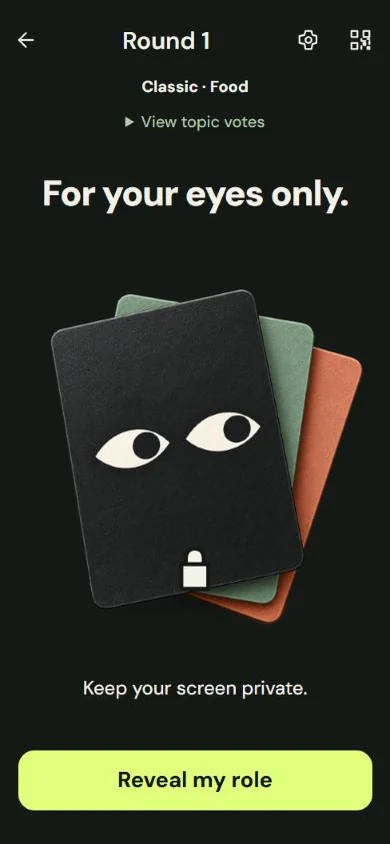
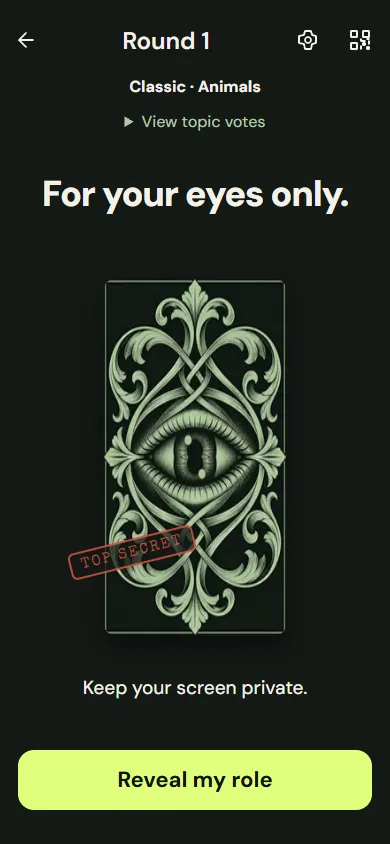
Prepare Imposter 1.3.0
Bumps the app to 1.3.0 and adds its release notes: power cards for 6+
players, the case-file noir theme, sound, your role on the ballot, and
the new power-cards-v1 protocol that asks older phones to update.
The README points at the 1.3.0 APK.

Website: every app screen recaptured in the new theme, a new
"Play your cards" row, a power cards feature, 1.3.0 links and copy.
The screens are now repeatable: scripts/site-capture.js plays the round
and scripts/site-screens.py turns the captures into docs/screens.

diff --git a/docs/index.html b/docs/index.html
@@ -13,8 +13,8 @@
   <link rel="canonical" href="https://malon0825.github.io/imposter-app/">
   <link rel="icon" type="image/svg+xml" href="assets/icon.svg">
   <link rel="preload" href="assets/fonts/anton-latin.woff2" as="font" type="font/woff2" crossorigin>
-  <link rel="stylesheet" href="styles.css?v=1.2.1">
-  <script src="site.js?v=1.2.1" defer></script>
+  <link rel="stylesheet" href="styles.css?v=1.3.0">
+  <script src="site.js?v=1.3.0" defer></script>
 </head>
 <body>
   <a class="skip-link" href="#main">Skip to content</a>
@@ -31,12 +31,12 @@
           <p class="tag">Someone is bluffing.</p>
           <p class="sub">One room. One secret. <br>Trust no one.</p>
           <p class="hero-description">A secret role on every phone. An imposter, their accomplice, a detective and a judge in the room. Find the liar before they fool everyone.</p>
-          <div class="actions"><a class="btn primary" data-latest-apk href="https://github.com/Malon0825/imposter-app/releases/download/v1.2.1/imposter-1.2.1-android.apk">Download for Android <span aria-hidden="true">↓</span></a><a class="text-link" href="#how">How to play <span aria-hidden="true">↗</span></a></div>
-          <p class="download-meta"><span data-latest-version>v1.2.1</span> <span>·</span> Android 8+ <span>·</span> Free</p>
+          <div class="actions"><a class="btn primary" data-latest-apk href="https://github.com/Malon0825/imposter-app/releases/download/v1.3.0/imposter-1.3.0-android.apk">Download for Android <span aria-hidden="true">↓</span></a><a class="text-link" href="#how">How to play <span aria-hidden="true">↗</span></a></div>
+          <p class="download-meta"><span data-latest-version>v1.3.0</span> <span>·</span> Android 8+ <span>·</span> Free</p>
         </div>
         <div class="hero-visual" aria-label="Real app screenshots: the imposter's role reveal and the detective's secret word">
           <div class="hero-phone back-phone"><img src="screens/cast-imposter.webp" width="390" height="844" alt="Imposter app: the Imposter role reveal, Escape the vote" fetchpriority="high"></div>
-          <div class="hero-phone front-phone"><img src="screens/round-detective-card.webp" width="390" height="844" alt="Imposter app: the detective's secret word is Butterfly" fetchpriority="high"></div>
+          <div class="hero-phone front-phone"><img src="screens/round-detective-card.webp" width="390" height="844" alt="Imposter app: the detective's secret word is Bear" fetchpriority="high"></div>
           <span class="photo-note">Actual app. Very suspicious friends.</span>
         </div>
       </div>
@@ -66,7 +66,7 @@
       <div class="wrap">
         <p class="eyebrow">03 / Set the mood</p><h2>From everyday to<br>“wait, what was that clue?”</h2><p class="lead">23 topic packs. 581 word-and-hint pairs. Everyone votes for topics before each round; tied leaders have equal random chances. Sensitive packs stay opt-in.</p>
         <div class="topics" aria-label="Sample topic packs"><span>Everyday</span><span>Food</span><span>Animals</span><span>Psychology</span><span>Relationships <small>Opt-in</small></span><span>Sex education <small>Opt-in</small></span><span>Consent <small>Opt-in</small></span></div>
-        <div class="features"><div><h3>A secret on every screen.</h3><p>Your role starts concealed on your own device. Reveal it when you're ready, then hide it before the clues begin.</p></div><div><h3>Built for being together.</h3><p>The host runs the party over local Wi-Fi. Friends can mix installed Android apps and browsers in one game.</p></div><div><h3>Your turn. Your choice.</h3><p>Drink, Dare, or Skip. A soft drink counts. Dares happen between friends, away from the app, and skipping never costs points.</p></div></div>
+        <div class="features"><div><h3>A secret on every screen.</h3><p>Your role starts concealed on your own device. Reveal it when you're ready, then hide it before the clues begin.</p></div><div><h3>Built for being together.</h3><p>The host runs the party over local Wi-Fi. Friends can mix installed Android apps and browsers in one game.</p></div><div><h3>Power cards for big tables.</h3><p>With six or more, draw a card before roles and play it at the right moment. Common, Rare or Golden, and everyone sees when one lands.</p></div><div><h3>Your turn. Your choice.</h3><p>Drink, Dare, or Skip. A soft drink counts. Dares happen between friends, away from the app, and skipping never costs points.</p></div></div>
       </div>
     </section>
     <section id="screens" class="surface-section">
@@ -77,7 +77,7 @@
             <figure><a class="screen-link" href="screens/01-welcome.webp"><img src="screens/01-welcome.webp" width="390" height="844" loading="lazy" alt="Welcome screen with Host party and Join party actions"></a><figcaption>01 · Welcome</figcaption></figure>
             <figure><a class="screen-link" href="screens/02-create.webp"><img src="screens/02-create.webp" width="390" height="844" loading="lazy" alt="Create a party with a name and shared Wi-Fi label"></a><figcaption>02 · Create a party</figcaption></figure>
             <figure><a class="screen-link" href="screens/03-host-setup.webp"><img src="screens/03-host-setup.webp" width="390" height="844" loading="lazy" alt="Background hosting setup with battery settings"></a><figcaption>03 · Keep it connected</figcaption></figure>
-            <figure><a class="screen-link" href="screens/cast-lobby.webp"><img src="screens/cast-lobby.webp" width="390" height="844" loading="lazy" alt="Host lobby with five ready players and tonight's cast of roles"></a><figcaption>04 · Host lobby</figcaption></figure>
+            <figure><a class="screen-link" href="screens/cast-lobby.webp"><img src="screens/cast-lobby.webp" width="390" height="844" loading="lazy" alt="Host lobby with six ready players and tonight's cast of roles"></a><figcaption>04 · Host lobby</figcaption></figure>
           </div>
         </article>
         <article class="flow"><div class="flow-heading"><span class="flow-index">05—08</span><div><h3>Find your people.</h3><p>Scan inside the Android app, check the connection, and take your place.</p></div></div>
@@ -102,23 +102,23 @@
           <div class="screen-row" tabindex="0" role="group" aria-label="Topics and private roles screenshots">
             <figure><a class="screen-link" href="screens/round-topic-vote.webp"><img src="screens/round-topic-vote.webp" width="390" height="844" loading="lazy" alt="Topic vote with Everyday, Food, Animals and other packs"></a><figcaption>15 · Vote on topics</figcaption></figure>
             <figure><a class="screen-link" href="screens/round-concealed.webp"><img src="screens/round-concealed.webp" width="390" height="844" loading="lazy" alt="Concealed private role card before revealing"></a><figcaption>16 · For your eyes only</figcaption></figure>
-            <figure><a class="screen-link" href="screens/round-imposter-card.webp"><img src="screens/round-imposter-card.webp" width="390" height="844" loading="lazy" alt="Imposter card showing the starting hint Garden"></a><figcaption>17 · The imposter</figcaption></figure>
-            <figure><a class="screen-link" href="screens/round-detective-card.webp"><img src="screens/round-detective-card.webp" width="390" height="844" loading="lazy" alt="Detective card showing the secret word Butterfly and a cleared player"></a><figcaption>18 · The detective</figcaption></figure>
+            <figure><a class="screen-link" href="screens/round-imposter-card.webp"><img src="screens/round-imposter-card.webp" width="390" height="844" loading="lazy" alt="Imposter card showing the starting hint Woodland"></a><figcaption>17 · The imposter</figcaption></figure>
+            <figure><a class="screen-link" href="screens/round-detective-card.webp"><img src="screens/round-detective-card.webp" width="390" height="844" loading="lazy" alt="Detective card showing the secret word Bear and a cleared player"></a><figcaption>18 · The detective</figcaption></figure>
           </div>
         </article>
         <article class="flow"><div class="flow-heading"><span class="flow-index">19—22</span><div><h3>Trust your instinct.</h3><p>Trade clues, lock your secret ballot, and find out who fooled whom.</p></div></div>
           <div class="screen-row" tabindex="0" role="group" aria-label="Voting and results screenshots">
-            <figure><a class="screen-link" href="screens/round-clue-board.webp"><img src="screens/round-clue-board.webp" width="390" height="844" loading="lazy" alt="Clue board with clue turns and the Open voting control"></a><figcaption>19 · Give your clues</figcaption></figure>
-            <figure><a class="screen-link" href="screens/round-ballot.webp"><img src="screens/round-ballot.webp" width="390" height="844" loading="lazy" alt="Detective's ballot naming the imposter and the accomplice, with an optional bet"></a><figcaption>20 · Cast your vote</figcaption></figure>
-            <figure><a class="screen-link" href="screens/round-your-result.webp"><img src="screens/round-your-result.webp" width="390" height="844" loading="lazy" alt="Personal result: the detective got it, plus five points"></a><figcaption>21 · Your result</figcaption></figure>
-            <figure><a class="screen-link" href="screens/round-the-room.webp"><img src="screens/round-the-room.webp" width="390" height="844" loading="lazy" alt="Everyone's results: the imposter escaped"></a><figcaption>22 · The room</figcaption></figure>
+            <figure><a class="screen-link" href="screens/round-clue-board.webp"><img src="screens/round-clue-board.webp" width="390" height="844" loading="lazy" alt="Clue board with the speaking order and another clue turn"></a><figcaption>19 · Give your clues</figcaption></figure>
+            <figure><a class="screen-link" href="screens/round-ballot.webp"><img src="screens/round-ballot.webp" width="390" height="844" loading="lazy" alt="Judge's ballot with their role, a vote that counts twice and an optional bet"></a><figcaption>20 · Cast your vote</figcaption></figure>
+            <figure><a class="screen-link" href="screens/round-your-result.webp"><img src="screens/round-your-result.webp" width="390" height="844" loading="lazy" alt="Personal result: the Judge guessed wrong"></a><figcaption>21 · Your result</figcaption></figure>
+            <figure><a class="screen-link" href="screens/round-the-room.webp"><img src="screens/round-the-room.webp" width="390" height="844" loading="lazy" alt="The verdict: Cleo escaped, with everyone's results"></a><figcaption>22 · The room</figcaption></figure>
           </div>
         </article>
         <article class="flow"><div class="flow-heading"><span class="flow-index">23—26</span><div><h3>Time to face the room.</h3><p>One player at a time. A drink, a human-given dare, or a guilt-free skip.</p></div></div>
           <div class="screen-row" tabindex="0" role="group" aria-label="Punishment turns and standings screenshots">
-            <figure><a class="screen-link" href="screens/17-choose.webp"><img src="screens/17-choose.webp" width="390" height="844" loading="lazy" alt="Choose Drink, Dare, or Skip for your punishment turn"></a><figcaption>23 · Your choice</figcaption></figure>
-            <figure><a class="screen-link" href="screens/turn-loser.webp"><img src="screens/turn-loser.webp" width="390" height="844" loading="lazy" alt="Kai's turn to choose their fate"></a><figcaption>24 · Your turn</figcaption></figure>
-            <figure><a class="screen-link" href="screens/turn-dare-giver.webp"><img src="screens/turn-dare-giver.webp" width="390" height="844" loading="lazy" alt="Jo gives Kai a dare in person"></a><figcaption>25 · A friend sets the dare</figcaption></figure>
+            <figure><a class="screen-link" href="screens/17-choose.webp"><img src="screens/17-choose.webp" width="390" height="844" loading="lazy" alt="Alex's turn: choose Drink, Dare, or Skip"></a><figcaption>23 · Your choice</figcaption></figure>
+            <figure><a class="screen-link" href="screens/turn-loser.webp"><img src="screens/turn-loser.webp" width="390" height="844" loading="lazy" alt="Ben's turn to choose their fate"></a><figcaption>24 · Your turn</figcaption></figure>
+            <figure><a class="screen-link" href="screens/turn-dare-giver.webp"><img src="screens/turn-dare-giver.webp" width="390" height="844" loading="lazy" alt="Dev gives Ben a dare in person"></a><figcaption>25 · A friend sets the dare</figcaption></figure>
             <figure><a class="screen-link" href="screens/turn-standings.webp"><img src="screens/turn-standings.webp" width="390" height="844" loading="lazy" alt="Session standings racing to 15 points"></a><figcaption>26 · Settle the score</figcaption></figure>
           </div>
         </article>
@@ -128,6 +128,16 @@
             <figure><a class="screen-link" href="screens/rule-revealed.webp"><img src="screens/rule-revealed.webp" width="390" height="844" loading="lazy" alt="This round: Classic, give a spoken clue"></a><figcaption>28 · The rule is set</figcaption></figure>
             <figure><a class="screen-link" href="screens/round-settings.webp"><img src="screens/round-settings.webp" width="390" height="844" loading="lazy" alt="Round settings sheet with pause, skip and random rules"></a><figcaption>29 · Host controls</figcaption></figure>
             <figure><a class="screen-link" href="screens/22-reconnecting.webp"><img src="screens/22-reconnecting.webp" width="390" height="844" loading="lazy" alt="Reconnecting screen after losing contact with the host"></a><figcaption>30 · Find your way back</figcaption></figure>
+          </div>
+        </article>
+        <article class="flow"><div class="flow-heading"><span class="flow-index">31—36</span><div><h3>Play your cards.</h3><p>With six or more players, the host can turn on power cards: draw before roles, play one a round, and turn the night around.</p></div></div>
+          <div class="screen-row cast-row" tabindex="0" role="group" aria-label="Power card screenshots">
+            <figure><a class="screen-link" href="screens/cards-draw.webp"><img src="screens/cards-draw.webp" width="390" height="844" loading="lazy" alt="Draw a power card for 3 points, with your Golden chance"></a><figcaption>31 · Draw or skip</figcaption></figure>
+            <figure><a class="screen-link" href="screens/cards-drawn.webp"><img src="screens/cards-drawn.webp" width="390" height="844" loading="lazy" alt="You drew Cardboard Crown, a Common card"></a><figcaption>32 · Only you see it</figcaption></figure>
+            <figure><a class="screen-link" href="screens/cards-hand.webp"><img src="screens/cards-hand.webp" width="390" height="844" loading="lazy" alt="Your case file: the cards in your hand and how each suits your role"></a><figcaption>33 · Your hand</figcaption></figure>
+            <figure><a class="screen-link" href="screens/cards-detail.webp"><img src="screens/cards-detail.webp" width="390" height="844" loading="lazy" alt="Late Arrival up close, in English and Filipino, with a tip for your role"></a><figcaption>34 · Read it, then play it</figcaption></figure>
+            <figure><a class="screen-link" href="screens/cards-xray.webp"><img src="screens/cards-xray.webp" width="390" height="844" loading="lazy" alt="A Golden X-Ray shows that Dev is the Imposter"></a><figcaption>35 · Golden cards change everything</figcaption></figure>
+            <figure><a class="screen-link" href="screens/cards-story.webp"><img src="screens/cards-story.webp" width="390" height="844" loading="lazy" alt="The Imposter Times: the story of the night's card plays"></a><figcaption>36 · The story of the night</figcaption></figure>
           </div>
         </article>
       </div>
@@ -140,7 +150,7 @@
     </section>
     <section id="download" class="surface-section">
       <div class="wrap download-layout">
-        <div><p class="eyebrow">Your next game night</p><h2>Find your imposter.</h2><p class="lead">Download the host app. Gather 3–12 friends.<br>Try to keep a straight face.</p><div class="actions"><a class="btn primary" data-latest-apk href="https://github.com/Malon0825/imposter-app/releases/download/v1.2.1/imposter-1.2.1-android.apk"><span>Download <span data-latest-version>v1.2.1</span> APK</span> <span aria-hidden="true">↓</span></a><a class="text-link" data-latest-notes href="https://github.com/Malon0825/imposter-app/releases/latest">Release notes <span aria-hidden="true">↗</span></a></div><p class="download-meta">Android 8+ · ARM64 · Free</p><p class="download-meta">New in 1.2.1: the Accomplice can tip a close vote, with no cost for voting the Detective. Update every Android phone; browser guests need nothing new.</p><a class="checksum-link" data-latest-sha href="https://github.com/Malon0825/imposter-app/releases/download/v1.2.1/imposter-1.2.1-android.apk.sha256">Download checksum</a></div>
+        <div><p class="eyebrow">Your next game night</p><h2>Find your imposter.</h2><p class="lead">Download the host app. Gather 3–12 friends.<br>Try to keep a straight face.</p><div class="actions"><a class="btn primary" data-latest-apk href="https://github.com/Malon0825/imposter-app/releases/download/v1.3.0/imposter-1.3.0-android.apk"><span>Download <span data-latest-version>v1.3.0</span> APK</span> <span aria-hidden="true">↓</span></a><a class="text-link" data-latest-notes href="https://github.com/Malon0825/imposter-app/releases/latest">Release notes <span aria-hidden="true">↗</span></a></div><p class="download-meta">Android 8+ · ARM64 · Free</p><p class="download-meta">New in 1.3.0: power cards for 6+ players, a case-file noir look and sound. Update every Android phone; browser guests need nothing new.</p><a class="checksum-link" data-latest-sha href="https://github.com/Malon0825/imposter-app/releases/download/v1.3.0/imposter-1.3.0-android.apk.sha256">Download checksum</a></div>
         <div class="install-help"><h3>Before your first round</h3><details><summary>How do I install the Android app?</summary><p>Download the APK on your Android phone, open it, and allow installation from your browser when Android asks. Every release uses the same signing key, so a new download updates your existing installation.</p></details><details><summary>Can iPhone friends play?</summary><p>Yes, through the browser guest flow. Connect to the host's Wi-Fi before scanning the party QR, then open the link in your preferred browser. The 1.1.0 flow passed automated WebKit checks; physical iPhone testing is still pending.</p></details><details><summary>Do we need an internet connection?</summary><p>Only to download the host app. Once installed, gameplay runs on the host's local Wi-Fi network. Connect every phone to the same reachable router. Some guest Wi-Fi networks isolate devices and prevent joining. Keep the host app available throughout the game.</p></details><details><summary>Is there a stable version?</summary><p><a href="https://github.com/Malon0825/imposter-app/releases/tag/v1.0.0">Version 1.0.0</a> is the stable native-only release. Each player needs the Android app for that version. Use the latest release for mixed app and browser play.</p></details></div>
       </div>
     </section>

diff --git a/scripts/site-capture.js b/scripts/site-capture.js
@@ -1,0 +1,153 @@
+// The website's app tour (docs/screens): plays one 6-player round with random
+// rules and screenshots each screen the site shows, under the site's own file
+// names, at 390x844. Power-card screens come from scripts/cards-capture.js and
+// the setup screens from scripts/visual-capture.js; scripts/site-screens.py
+// turns all of them into docs/screens/*.webp. Run with the app preview:
+//   npx --package @playwright/cli playwright-cli -s=imposter open http://127.0.0.1:1428
+//   npx --package @playwright/cli playwright-cli -s=imposter run-code --filename=scripts/site-capture.js
+async function siteCapture(hostPage) {
+  const origin = new URL(hostPage.url()).origin;
+  const browser = hostPage.context().browser();
+  const contexts = [];
+  const out = "output/playwright/site";
+  const button = (page, name) => page.getByRole("button", { name, exact: true });
+  const heading = (page, name) => page.getByRole("heading", { name, exact: true });
+  const call = async (method, body) => {
+    const response = await hostPage.request.post(`${origin}/api/${method}`, { headers: { "X-Imposter-Dev": "1" }, data: body });
+    const data = await response.json();
+    if (!response.ok()) throw Error(data.error);
+    return data;
+  };
+  const shots = [];
+  const capture = async (page, name, wait = 700) => {
+    await page.waitForTimeout(wait);
+    await page.evaluate(() => document.fonts.ready);
+    const overflow = await page.evaluate(() => document.documentElement.scrollWidth > innerWidth + 1);
+    await page.screenshot({ path: `${out}/${name}.png` });
+    shots.push(overflow ? `${name} (OVERFLOW)` : name);
+  };
+  const open = async (session, party) => {
+    const context = await browser.newContext({ viewport: { width: 390, height: 844 } });
+    contexts.push(context);
+    const page = await context.newPage();
+    await page.goto(origin);
+    await button(page, "Host party").waitFor();
+    if (!session) return page;
+    await page.evaluate((data) => sessionStorage.setItem("imposter.session.v1", JSON.stringify(data)), session);
+    await page.reload();
+    await heading(page, party).waitFor();
+    return page;
+  };
+  try {
+    const welcome = await open(null);
+    await capture(welcome, "01-welcome");
+
+    const party = "Friday night";
+    const names = ["Alex", "Ben", "Cleo", "Dev", "Eve", "Kai"];
+    const host = await call("create", { name: party, player: names[0], wifi: "Home Wi-Fi" });
+    const sessions = [host];
+    for (const name of names.slice(1))
+      sessions.push(await call("join", { invitation: host.credentials.native_invitation, player: name }));
+    const pages = [];
+    for (const session of sessions) pages.push(await open(session, party));
+    const [hostTab, guestTab] = pages;
+    await Promise.all(pages.slice(1, 5).map((page) => button(page, "I’m ready").click()));
+    await button(pages[5], "I’m ready").click();
+    await capture(hostTab, "cast-lobby");
+    await hostTab.getByRole("switch", { name: "Random rules" }).click().catch(() => {});
+    await button(hostTab, "Start round").click();
+
+    // Rule reveal (random rules), then the topic vote.
+    await hostTab.locator(".rule-shuffle").waitFor({ timeout: 8000 }).then(() => capture(hostTab, "rule-shuffle", 300)).catch(() => {});
+    await hostTab.locator(".rule-card, .round-rule-card").first().waitFor({ timeout: 8000 }).then(() => capture(hostTab, "rule-revealed", 900)).catch(() => {});
+    await heading(hostTab, "What should we play?").waitFor({ timeout: 15000 });
+    const vote = (await call("state", { session_id: host.session_id })).topic_vote;
+    const topic = (await call("catalog", {})).find((entry) => entry.id === vote.available_topics[0]).name;
+    await button(guestTab, topic).click();
+    await capture(guestTab, "round-topic-vote");
+    await Promise.all(pages.map(async (page) => {
+      if (page !== guestTab) await button(page, topic).click();
+      await button(page, "Lock my vote").click();
+    }));
+    await hostTab.locator(".chosen-topic-card").waitFor({ timeout: 15000 }).then(() => capture(hostTab, "round-topic-chosen", 900)).catch(() => {});
+
+    // Roles: the poster, the concealed card, the word or hint, then waiting.
+    const roles = [];
+    for (const [i, page] of pages.entries()) {
+      await button(page, "Reveal my role").waitFor({ timeout: 15000 });
+      if (i === 0) await capture(page, "round-concealed");
+      await button(page, "Reveal my role").click();
+      const role = (await page.locator(".role-stage-name").textContent()).trim();
+      roles.push(role);
+      await capture(page, `cast-${role.toLowerCase()}`, 1200);
+      await page.getByRole("button", { name: /^See my/ }).click();
+      await page.locator(".role-title").waitFor();
+      if (role === "Imposter") await capture(page, "round-imposter-card", 1000);
+      if (role === "Detective") await capture(page, "round-detective-card", 1000);
+      await button(page, "Hide & ready").click();
+    }
+
+    await capture(hostTab, "round-clue-board");
+    await hostTab.getByRole("button", { name: "Session settings" }).click();
+    await capture(hostTab, "round-settings");
+    await hostTab.keyboard.press("Escape");
+    await hostTab.getByRole("button", { name: "Close" }).click().catch(() => {});
+    await button(hostTab, "Open voting").click();
+
+    for (const [index, page] of pages.entries()) {
+      await page.locator(".ballot-row, .crew-ballot").first().waitFor();
+      if (await heading(page, "Find your crew").count()) {
+        await page.getByRole("group", { name: "Your accomplice?" }).locator("button:not([disabled])").first().click();
+        await page.getByRole("group", { name: "The decoy?" }).locator("button:not([disabled])").first().click();
+      } else {
+        await page.locator(".ballot-row:not([disabled])").first().click();
+        if (roles[index] === "Detective")
+          await page.getByRole("group", { name: "Who’s the accomplice?" }).locator("button:not([disabled])").last().click();
+      }
+      if (roles[index] === "Judge") await capture(page, "round-ballot");
+      await button(page, "Confirm vote").click();
+      if (index < pages.length - 1) {
+        await heading(page, "Your vote is locked").waitFor();
+      }
+    }
+    await Promise.all(pages.map((page) => page.locator(".personal-stage").waitFor({ timeout: 15000 })));
+    await hostTab.locator(".everyone-results, .your-result").first().waitFor({ timeout: 15000 }).catch(() => {});
+    await capture(hostTab, "round-your-result");
+    await button(hostTab, "See the room").click().catch(() => {});
+    await hostTab.locator(".everyone-results").waitFor({ timeout: 20000 });
+    await capture(hostTab, "round-the-room");
+
+    // A guest files a complaint, then Drink or Dare runs until the standings.
+    await button(guestTab, "See the room").click().catch(() => {});
+    await button(guestTab, "Report a rule violation").click();
+    await guestTab.locator(".report-sheet-row").first().click();
+    await guestTab.getByRole("button", { name: "Close report" }).click();
+    await button(hostTab, "Continue").click();
+    for (let turn = 0; turn < pages.length; turn++) {
+      await hostTab.waitForTimeout(800);
+      const loser = await (async () => {
+        for (const page of pages) if (await button(page, "Drink").count()) return page;
+        return null;
+      })();
+      if (!loser) break;
+      if (turn === 0) {
+        await capture(loser, "turn-loser");
+        await button(loser, "Dare").click();
+        await loser.locator(".dare-pair").waitFor();
+        await capture(loser, "turn-dare-giver");
+      } else {
+        await button(loser, "Drink").click();
+      }
+      await button(loser, "Done").click();
+    }
+    await hostTab.locator(".standings").waitFor({ timeout: 15000 });
+    await capture(hostTab, "turn-standings");
+    return shots;
+  } catch (error) {
+    for (const [i, context] of contexts.entries())
+      for (const page of context.pages()) await page.screenshot({ path: `${out}/failure-${i}.png` }).catch(() => {});
+    throw Error(`${error.message}\nCaptured so far: ${shots.join(", ")}`);
+  } finally {
+    for (const context of contexts) await context.close();
+  }
+}

diff --git a/scripts/site-screens.py b/scripts/site-screens.py
@@ -1,0 +1,58 @@
+"""Turn the capture scripts' PNGs into the website's screens (docs/screens/*.webp).
+
+Run after the three captures (see docs/README.md, "Screenshots"):
+    scripts/site-capture.js   -> output/playwright/site/<site name>.png
+    scripts/cards-capture.js  -> output/playwright/cards-390/<nn>-<screen>.png
+    scripts/visual-capture.js -> output/playwright/visual-site/<nn>-<screen>.png
+                                 (open it at /?capture=site&width=390&height=844)
+
+    python -I scripts/site-screens.py
+"""
+from __future__ import annotations
+
+import sys
+from pathlib import Path
+
+from PIL import Image
+
+ROOT = Path(__file__).resolve().parent.parent
+OUT = ROOT / "docs/screens"
+PW = ROOT / "output/playwright"
+SIZE = (390, 844)
+
+# docs/screens name -> captured PNG
+SOURCES = {
+    **{name: PW / "site" / f"{name}.png" for name in [
+        "01-welcome", "cast-lobby", "rule-shuffle", "rule-revealed", "round-topic-vote", "round-concealed",
+        "cast-imposter", "cast-accomplice", "cast-decoy", "cast-detective", "cast-judge", "cast-gambler",
+        "round-imposter-card", "round-detective-card", "round-clue-board", "round-settings", "round-ballot",
+        "round-your-result", "round-the-room", "turn-loser", "turn-dare-giver", "turn-standings",
+    ]},
+    **{name: PW / "visual-site" / f"{name}.png" for name in [
+        "02-create", "03-host-setup", "05-scan", "06-wifi", "07-identity", "08-guest-lobby", "17-choose", "22-reconnecting",
+    ]},
+    "cards-draw": PW / "cards-390/02-draw-offer.png",
+    "cards-drawn": PW / "cards-390/05-revealed.png",
+    "cards-hand": PW / "cards-390/07-hand-sheet.png",
+    "cards-detail": PW / "cards-390/08-card-detail.png",
+    "cards-xray": PW / "cards-390/12-private-read.png",
+    "cards-story": PW / "cards-390/22-story.png",
+}
+
+
+def main() -> int:
+    missing = [str(p.relative_to(ROOT)) for p in SOURCES.values() if not p.exists()]
+    if missing:
+        print("Missing captures:\n  " + "\n  ".join(missing))
+        return 1
+    for name, src in SOURCES.items():
+        with Image.open(src) as im:
+            im = im.convert("RGB").crop((0, 0, *SIZE))
+            im.save(OUT / f"{name}.webp", "WEBP", quality=82, method=6)
+    total = sum((OUT / f"{n}.webp").stat().st_size for n in SOURCES)
+    print(f"wrote {len(SOURCES)} screens, {total / 1e6:.2f} MB")
+    return 0
+
+
+if __name__ == "__main__":
+    sys.exit(main())

diff --git a/README.md b/README.md
@@ -2,7 +2,7 @@
 
 An Android-first, local multiplayer party game built with Tauri 2, Rust, React, and TypeScript. Each player uses their own phone. One phone hosts the party; everyone joins its reachable local Wi-Fi network using an invitation QR code. No account or internet service is required for native play.
 
-Version 1.2.0 made every round Full Cast: each player gets a secret role, from 3 to 12 players. Version 1.2.1 makes the Accomplice easier to play. It also adds random round rules, a self-running round flow and the word deck. Version 1.1.0 added offline browser guests. Only the Android host needs the app: iPhone and Android guests can open the same invitation in their default browser, while installed Android guests can scan it inside Imposter. The host bundles and serves every guest page, font, and image. See [browser guest setup and verification](design/WEB-GUEST-IMPLEMENTATION.md). Physical iPhone and shared-router checks remain unverified; this build is a browser-guest preview.
+Version 1.3.0 adds power cards for 6+ players, a case-file noir look and sound. Version 1.2.0 made every round Full Cast: each player gets a secret role, from 3 to 12 players. Version 1.2.1 makes the Accomplice easier to play. It also adds random round rules, a self-running round flow and the word deck. Version 1.1.0 added offline browser guests. Only the Android host needs the app: iPhone and Android guests can open the same invitation in their default browser, while installed Android guests can scan it inside Imposter. The host bundles and serves every guest page, font, and image. See [browser guest setup and verification](design/WEB-GUEST-IMPLEMENTATION.md). Physical iPhone and shared-router checks remain unverified; this build is a browser-guest preview.
 
 The interface implements the [approved screen designs](design/proposal-v1/README.md): charcoal, ivory, lime, tactile secret-card artwork, animated role reveals, short page transitions, bottom sheets, sequential punishment turns, and animated standings. Fonts and artwork are bundled for offline use. Reduced-motion preferences are respected.
 
@@ -14,7 +14,7 @@ How the game works, exactly as coded: [MECHANICS.md](MECHANICS.md). The steps be
 
 ## Play
 
-1. Download **imposter-1.2.1-android.apk** from the [v1.2.1 release](https://github.com/Malon0825/imposter-app/releases/tag/v1.2.1) on the Android host, open it, and allow installation from your browser when Android asks. Android guests may also install it; browser guests need no installation. Connect everyone to the same reachable router's Wi-Fi. The signed APK includes ARM64 phones and x86_64 emulators; minimum Android 8 / API 26. Native Android guests need 1.2.1 as well. Older installs are turned away and can join in the browser instead.
+1. Download **imposter-1.3.0-android.apk** from the [v1.3.0 release](https://github.com/Malon0825/imposter-app/releases/tag/v1.3.0) on the Android host, open it, and allow installation from your browser when Android asks. Android guests may also install it; browser guests need no installation. Connect everyone to the same reachable router's Wi-Fi. The signed APK includes ARM64 phones and x86_64 emulators; minimum Android 8 / API 26. Native Android guests need 1.3.0 as well. Older installs are turned away and can join in the browser instead.
 2. Choose **Host party**, enter a name, and label the shared Wi-Fi. The host can enable background hosting with an ongoing notification, visit battery settings, or choose to keep the app open.
 3. Guests scan the host's QR using their Camera/QR reader to join through their chosen browser, or use **Join party → Scan invitation** inside the updated Android app to play natively. Android browser joining also offers **Open in Imposter** where supported. Enter a unique name and mark ready. Tapping the host's QR enlarges it; copy/paste is supported. Browser traffic uses unencrypted local HTTP, so use Wi-Fi you trust.
 4. From the lobby, choose whether to use **Random rules** and start with 3–12 ready players. A random rule reveal advances automatically to compatible topic voting. Everyone chooses and locks one or more topics. The highest approval count wins, with an automatic draw among tied leaders. Private cards appear automatically after the deal is saved. Each player first sees their secret role, then their card; hide it to ready up. Word holders can swipe left or tap **Swipe for meaning**. The imposter sees a hint.

diff --git a/docs/README.md b/docs/README.md
@@ -1,6 +1,6 @@
 # IMPOSTER website
 
-A single-page app tour and Android download page, based on the user's HTML reference. Static HTML, CSS, and progressive JavaScript; no build step, analytics, accounts, or external font service. Download buttons resolve the newest GitHub release's `*-android.apk` (and its `.sha256`) through the public releases API on page load; the static hrefs point at v1.2.1 as the no-JavaScript fallback. A new release needs no site change as long as its APK keeps the `imposter-<version>-android.apk` name.
+A single-page app tour and Android download page, based on the user's HTML reference. Static HTML, CSS, and progressive JavaScript; no build step, analytics, accounts, or external font service. Download buttons resolve the newest GitHub release's `*-android.apk` (and its `.sha256`) through the public releases API on page load; the static hrefs point at v1.3.0 as the no-JavaScript fallback. A new release needs no site change as long as its APK keeps the `imposter-<version>-android.apk` name.
 
 Local preview: `python -m http.server 8799 --directory docs`, then open `http://localhost:8799/`.
 
@@ -12,10 +12,10 @@ The `.nojekyll` file keeps deployment static. Relative asset paths work at the r
 
 ## Screenshots
 
-All captures are the actual app with sample players. Round screens (`cast-*`, `round-*`, `turn-*`, `rule-*`) are Full Cast captures from `scripts/full-cast-smoke.js` and the Full Cast host-flow run. Setup and joining screens (`01`–`08`, `17`, `22`) come from `scripts/visual-capture.js`; they did not change with Full Cast. All app screens are WebP at 390×844. The 1.2.1 changes (the Accomplice's vote note and the removed Detective fine) appear only on the Accomplice's ballot, which the site doesn't show, so no capture needed refreshing. The two browser landing captures come from the production guest flow against the real Rust host.
+All captures are the actual app with sample players, in the 1.3 case-file theme, as WebP at 390×844. `scripts/site-capture.js` plays a 6-player round with random rules for the setup, cast, round, turn and rule screens; `scripts/cards-capture.js` supplies the power-card row (`cards-*`); `scripts/visual-capture.js`, opened at `/?capture=site&width=390&height=844`, supplies the joining screens (`02`–`08`, `17`, `22`). Then `python -I scripts/site-screens.py` converts them into `docs/screens/`. The two browser landing captures come from the production guest flow against the real Rust host.
 
 <img src="screens/cast-imposter.webp" width="200" alt="Imposter role reveal"> <img src="screens/round-detective-card.webp" width="200" alt="Detective card showing Butterfly">
 
 ## Verification
 
-Checked at 320, 360, 390, 768, 1024, 1280, and 1440 pixels: no page overflow, all images load, six complete screenshot rows, working versioned download links, keyboard gallery scrolling, image-dialog Escape/focus behavior, 20 repeated preview cycles, installation help, reduced motion, and the no-JavaScript fallback. The site uses the app's DM Sans and Anton fonts with their licenses beside the font files.
+Checked at 320, 360, 390, 768, 1024, 1280, and 1440 pixels: no page overflow, all images load, eight complete screenshot rows, working versioned download links, keyboard gallery scrolling, image-dialog Escape/focus behavior, 20 repeated preview cycles, installation help, reduced motion, and the no-JavaScript fallback. The site uses the app's DM Sans and Anton fonts with their licenses beside the font files.

diff --git a/releases/v1.3.0.md b/releases/v1.3.0.md
@@ -1,0 +1,34 @@
+# Imposter 1.3.0
+
+Download **imposter-1.3.0-android.apk** on your Android phone and open it to install. It updates Imposter 1.0.0 through 1.2.1 in place, using the same signing key, and keeps your settings.
+
+## Update every Android device
+
+This release adds power cards, so it uses a new round protocol. A 1.3.0 host only accepts native guests running 1.3.0. An older app is turned away with **Update Imposter to join this party, or open the invitation in your browser.** Browser guests load the current screens from the host, so they need no update.
+
+## Power cards
+
+With 6 or more players, the host can turn on **Power cards** in the lobby. It's off until they do.
+
+- **Draw before roles.** Each round, everyone can draw one card for 3 points or skip. There's no timer: when you're done you go on to your role, and anyone still reading their card catches up. Up to 4 paid draws per session.
+- **37 cards in three tiers.** Common, Rare and Golden, each with its own art. Golden cards are one of a kind per session, and your Golden chance grows a little with every draw that isn't Golden.
+- **One card per round.** Play it when you see your role, during the discussion, or with your vote. Passive cards go off by themselves if you didn't play one.
+- **Everyone sees who played a card and its tier, never which card.** When cards clash, the higher tier wins, and every phone shows the verdict: BLOCKED, SUSTAINED, OVERRULED or VETOED.
+- **A way back for whoever is far behind.** From round 3, Underdogs draw free, can always bet 3, and collect a Bounty when the leader loses a round.
+- **Card text for everyone.** Every ability is written in plain words, and each phone can switch the card text to Filipino.
+- **The cards fit the roles.** Each card shows whether it suits your role this round. A card your role can't use says so.
+- **Results replay every card played**, standings show the leaders and Underdogs, and a finished session ends with the Story of the night.
+
+## A new look and sound
+
+- **Case-file noir theme** on every screen: evidence tags, stamps, typewriter labels and new role art.
+- **Sound effects** for taps, reveals and results. Shared moments play together on every phone, and a phone that arrives late stays quiet instead of echoing. Each phone has its own Sound switch.
+- **Your role on the ballot.** The vote screen now shows your role's portrait, name and how your vote works.
+- **Game motion** for draws, plays and verdicts, without slowing the round down. Reduced motion is respected.
+
+## Fixes
+
+- The chosen topic now stays on screen for a moment before the round starts.
+- Your secret word sits in the middle of the role card.
+
+The signed APK supports ARM64 phones and x86_64 emulators running Android 8 or later. A SHA-256 checksum is attached alongside the APK.
